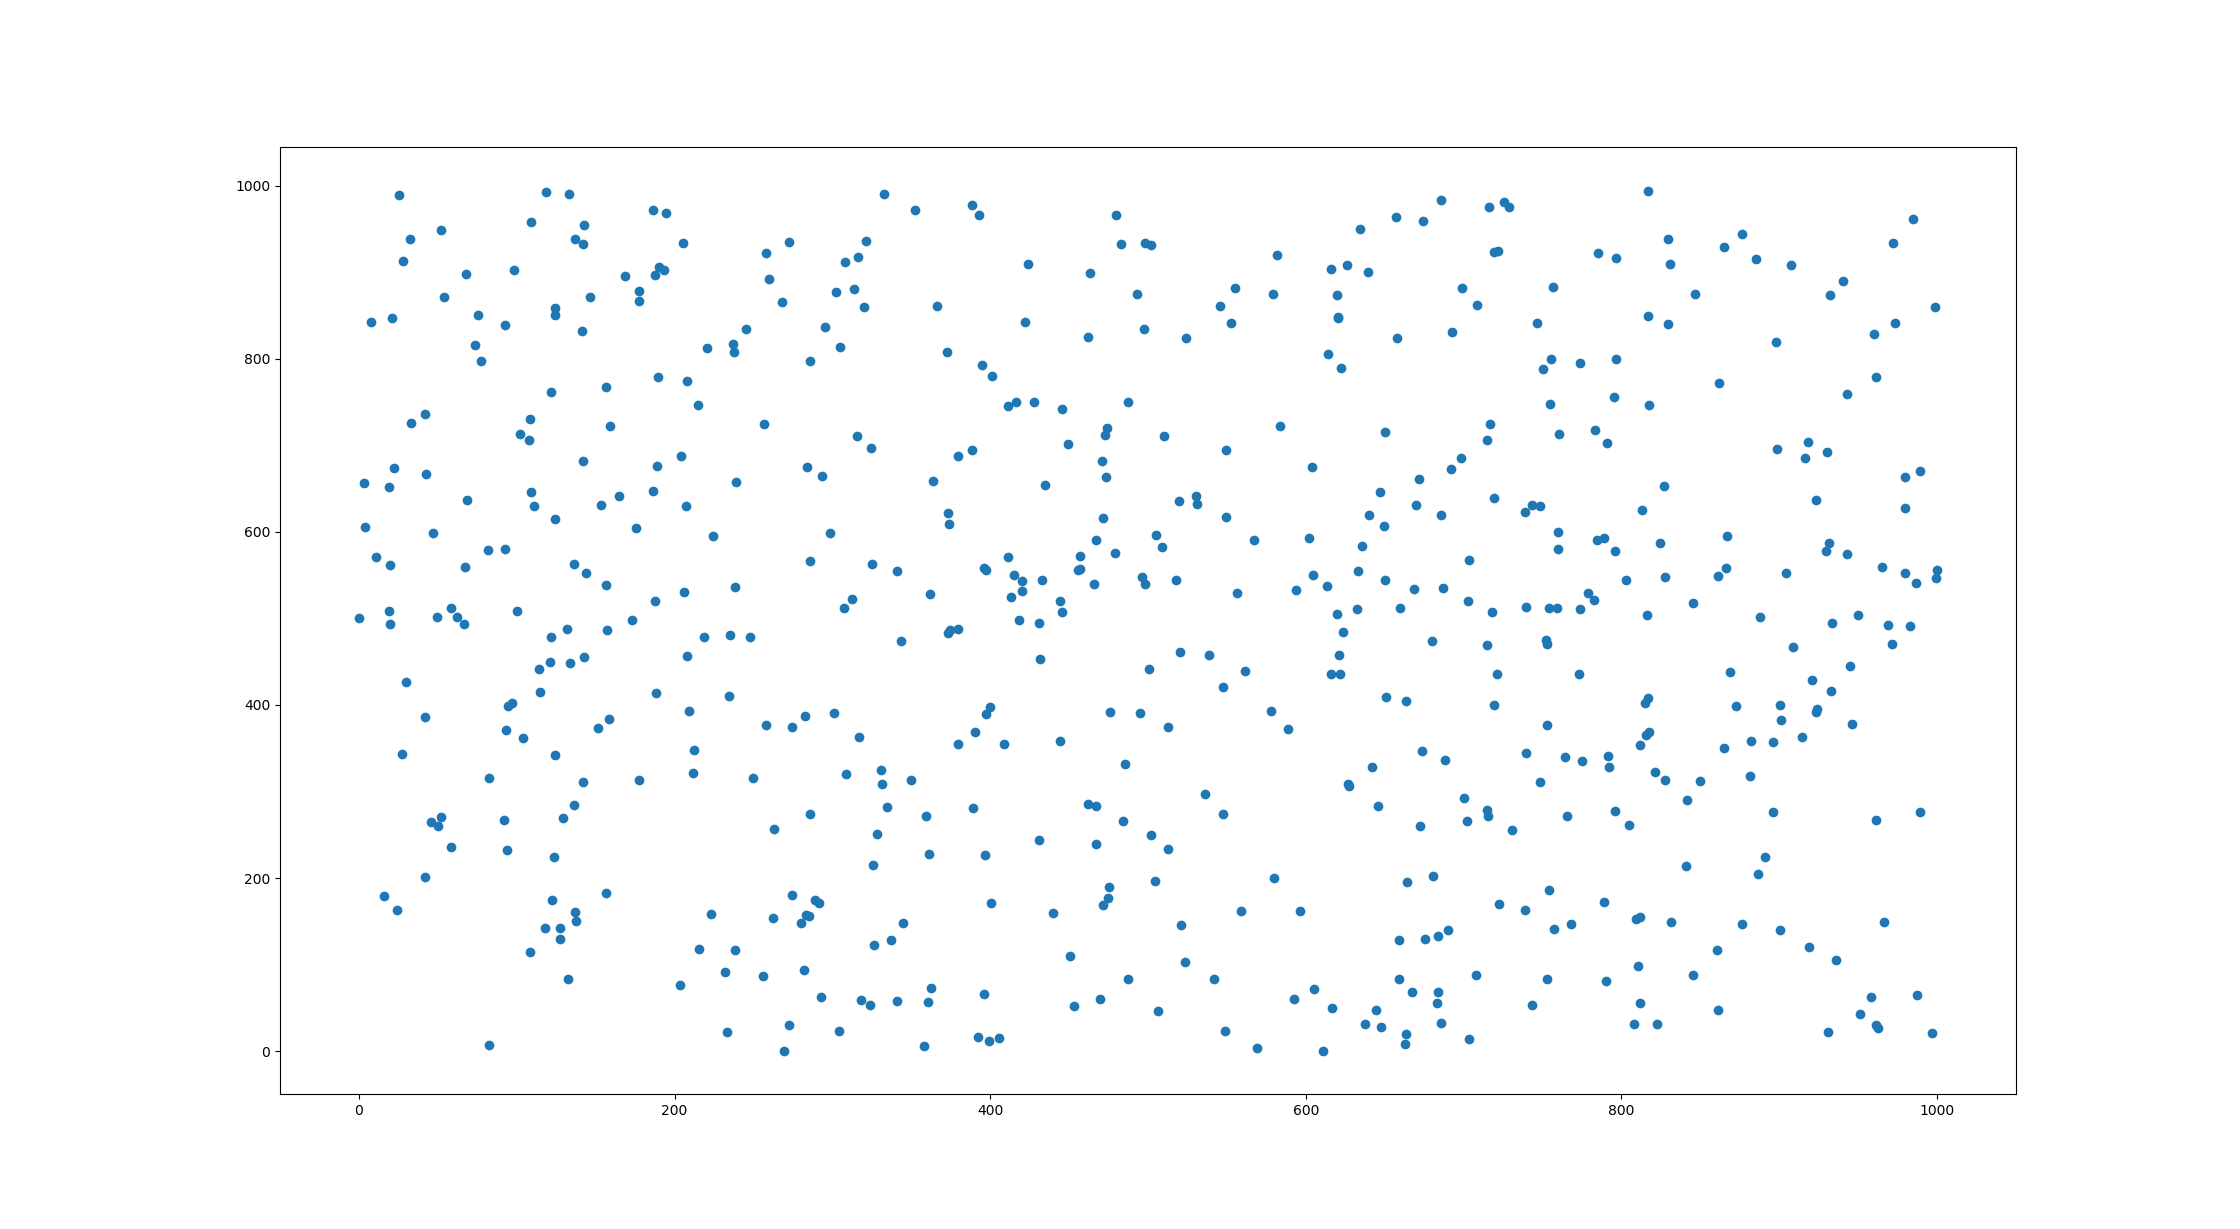
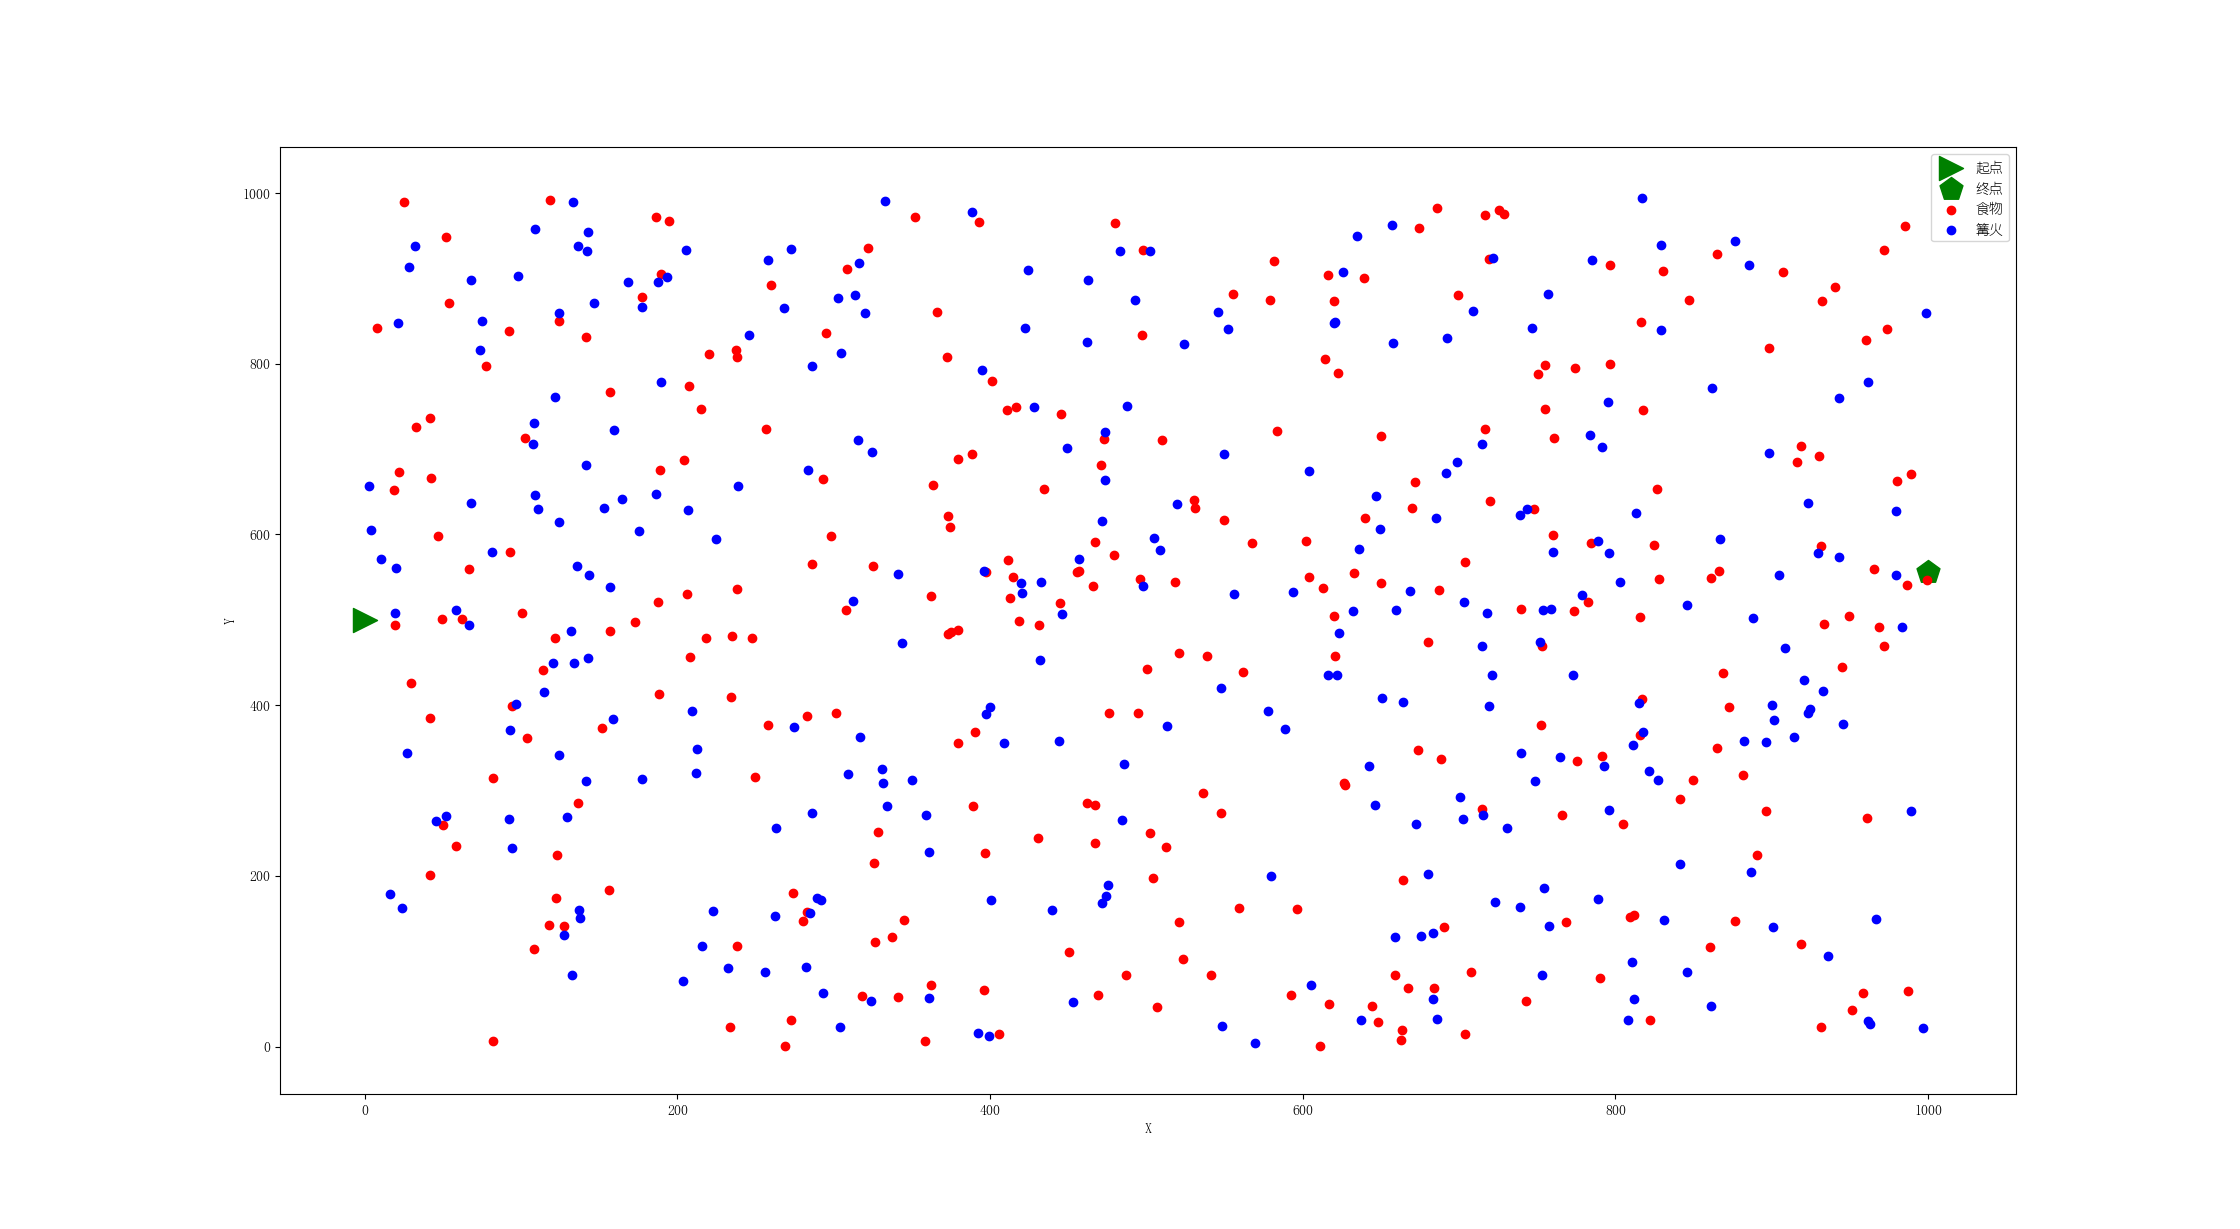
test

diff --git a/tools.py b/tools.py
@@ -39,7 +39,7 @@ def Get_XYZ(file):
     return cow_X, cow_Y, cow_Z
 
 # 画出所有资源点分布
-def Draw_Resource_Node(file):
+def Draw_Resource(file):
     choice = input("平面选0，空间选1:\n")
     file = "data.csv"
     cow_X, cow_Y, cow_Z = Get_XYZ(file)
@@ -84,10 +84,11 @@ def Draw_Resource_Node(file):
         ax = plt.subplot()
         # fig = plt.figure()
         # ax = fig.add_subplot(1, 1, 1)
-        ax.scatter(origin_X, origin_Y, s = 300, c = 'g', marker = '>')
-        ax.scatter(destination_X, destination_Y, s = 300, c = 'g', marker = 'p')
-        ax.scatter(food_X, food_Y, c = 'r')
-        ax.scatter(bonfire_X, bonfire_Y, c = 'b')
+        origin = ax.scatter(origin_X, origin_Y, s = 300, c = 'g', marker = '>')
+        destination = ax.scatter(destination_X, destination_Y, s = 300, c = 'g', marker = 'p')
+        food = ax.scatter(food_X, food_Y, c = 'r')
+        bonfire = ax.scatter(bonfire_X, bonfire_Y, c = 'b')
+        plt.legend((origin, destination, food, bonfire), ('起点', '终点', '食物', '篝火'))
         ax.set_xlabel('X')  # 设置x坐标轴
         ax.set_ylabel('Y')  # 设置y坐标轴
         plt.show()

diff --git a/test.py b/test.py
@@ -19,4 +19,4 @@ class Map:
 
 
 if __name__ == "__main__":
-    tools.Draw_Resource_Node("data.csv")
+    tools.Draw_Resource("data.csv")
